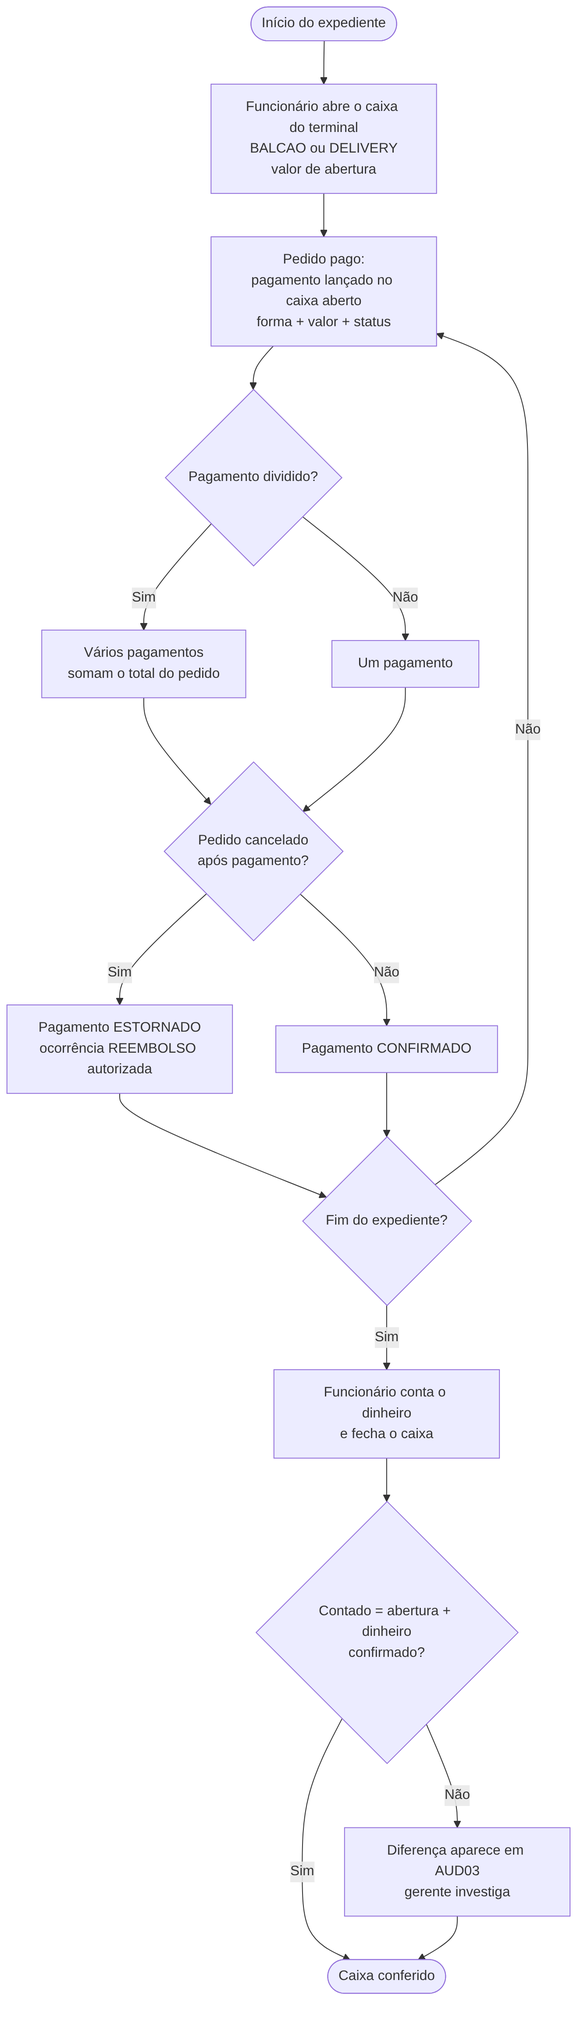
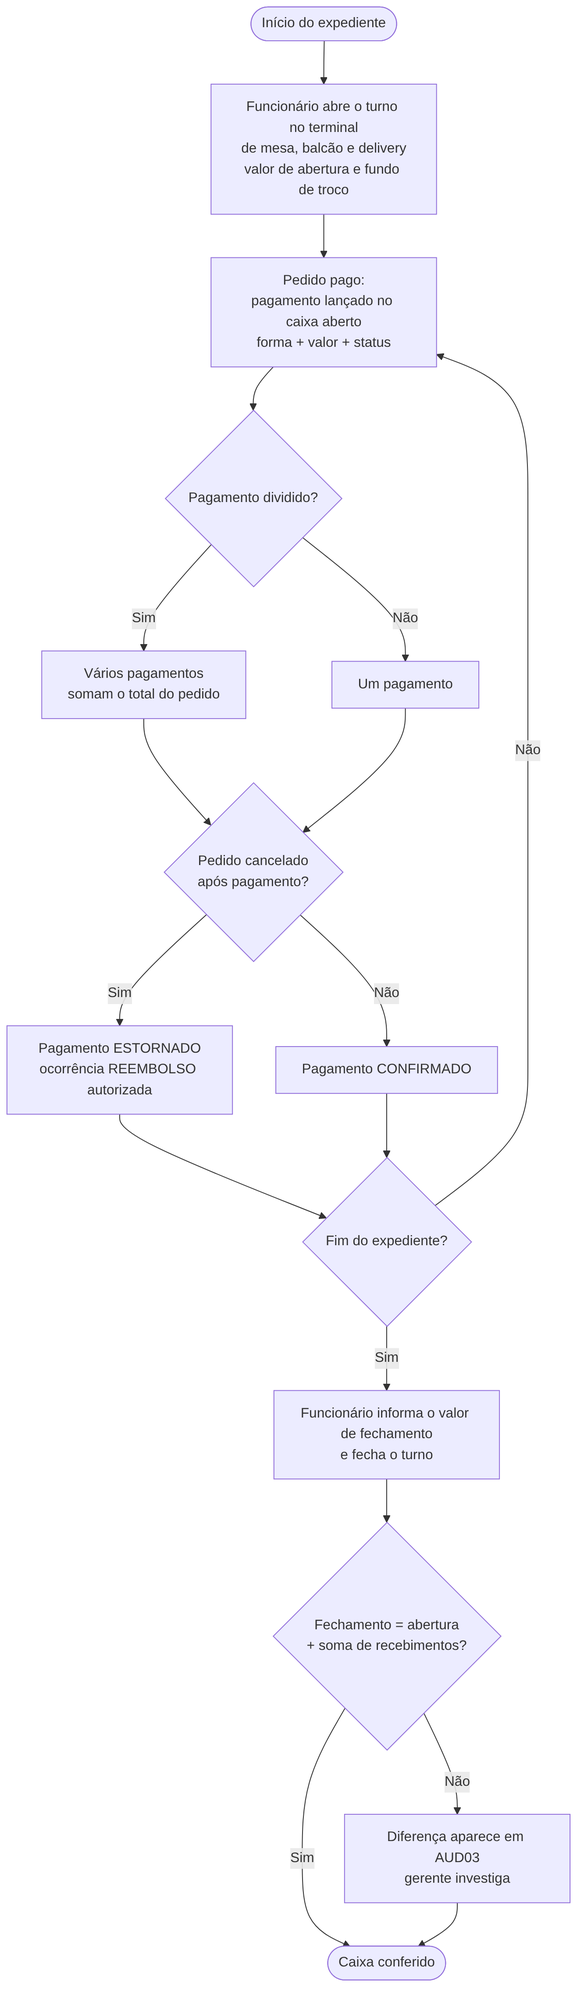
docs: decisões D16-D23, dados reais x simulados, DER lógico, fluxograma do caixa, requisitos e rastreabilidade atualizados

diff --git a/docs/requisitos/requisitos.md b/docs/requisitos/requisitos.md
@@ -21,7 +21,7 @@ Os identificadores do grupo foram mantidos. `RNF02` e `RNF05` não existem mais 
 | **RF11** | Método de entrega | O cliente escolhe a modalidade do pedido: LOCAL (consumo no salão), RETIRADA (no balcão) ou DELIVERY. Pedido DELIVERY gera uma entrega com endereço, taxa, entregador e horários de saída e chegada. | Mantido; modalidade separada do canal. | CHECK ck_pedido_canal_modalidade; invariantes 'delivery sempre tem entrega'; testes T05-T06, T28. |
 | **RF12** | Compras, recebimento e conferência de insumos | O gerente ou proprietário registra a compra ao fornecedor (itens e valor); o recebimento é conferido por lote (quantidade e validade) contra o que foi comprado; divergências são detectáveis. | NOVO: a devolutiva apontou que o escopo ignorava compras, recebimento, conferência e reposição. | Auditoria AUD01; teste T11-T12. |
 | **RF13** | Contas a pagar | Cada compra gera uma obrigação financeira com valor, vencimento e situação (ABERTA, PAGA, CANCELADA); despesas fixas (aluguel, energia) também são registradas; vencidas e não pagas são listadas. | NOVO: a devolutiva exigiu demonstrar obrigações financeiras e pagamentos. | Consulta G10; auditoria AUD05; invariante 'conta a pagar = soma da compra'. |
-| **RF14** | Caixa | Cada terminal (BALCAO, DELIVERY) abre e fecha caixa por dia, com valor de abertura, valor contado no fechamento e responsáveis; todo pagamento é lançado em um caixa; a diferença entre o contado e o esperado em dinheiro é auditável. | NOVO: baseado no relatório de fechamento de caixa da Evidência 1 do grupo. | Auditoria AUD03. |
+| **RF14** | Caixa | O terminal (na fita: "Mont Ararat Delivery", que registra vendas de mesa, balcão e delivery) abre e fecha o turno com valor de abertura, valor de fechamento informado e responsáveis; todo pagamento é lançado em um caixa; os recebimentos são agrupados em dinheiro, cartão e outras formas; a diferença de caixa = fechamento − (abertura + soma de recebimentos) é auditável, e o fechamento mostra serviço de mesa, tickets e cancelamentos de mesa. | NOVO: baseado na fita de fechamento de turno real (Evidência 1 do grupo), lida campo a campo. | Consulta G14 (reproduz a fita); auditoria AUD03 e AUD11; teste T43. |
 | **RF15** | Promoções e descontos | O sistema aplica promoção de aniversário (exige documento conferido) e cupons; todo desconto é autorizado por funcionário com permissão e o valor fica registrado no pedido. | NOVO: formaliza a política organizacional de promoções do README. | Consulta G12; auditoria AUD02; testes T07-T08, T35-T36. |
 | **RF16** | Trocas, cancelamentos e reembolsos | Troca, cancelamento e reembolso são registrados como ocorrência do pedido, com causa, indicação de consumo pelo cliente, autorizador e, no reembolso, o valor devolvido. | NOVO: operacionaliza RDN05 e RDN10. | Auditoria AUD08; testes T21-T24. |
 | **RF17** | Fila de produção com prioridade | O sistema ordena a produção pelo par (prioridade, horário do pedido): prioridade 1 para modalidade LOCAL, prioridade 2 para RETIRADA e DELIVERY (RDN09). | NOVO: demonstra COMO a prioridade é aplicada à fila, como pedido na devolutiva. | Consultas O02, O06, G07. |
@@ -36,7 +36,7 @@ Os identificadores do grupo foram mantidos. `RNF02` e `RNF05` não existem mais 
 | **RNF03** | Tempo de resposta do lançamento de pedidos | O lançamento de um pedido e o envio à cozinha respondem em até 2 segundos em pico (sexta e sábado, 19h-22h). | Mantido. | Teste de carga com a massa de dados; índices nas chaves estrangeiras criadas pelo InnoDB. |
 | **RNF04** | Emissão do comprovante | O comprovante do pedido é emitido em até 5 segundos após a confirmação do pagamento (consulta v_total_pedido e v_pedido_pagamento). | Mantido. | Medição da consulta de comprovante. |
 | **RNF06** | Disponibilidade do módulo de contato | O módulo de contato com o cliente fica disponível em pelo menos 99% do tempo de funcionamento. | Mantido. | Monitoramento de disponibilidade. |
-| **RNF07** | Integridade dos dados garantida pelo SGBD | Domínios, obrigatoriedade, unicidade, referências e as regras RDN01-RDN15 são garantidas pelo próprio banco (PK, FK, UNIQUE, CHECK e triggers), não apenas pela aplicação. | NOVO: critério de qualidade do modelo lógico. | 39 testes de restrição (sql/testes) com controles positivos. |
+| **RNF07** | Integridade dos dados garantida pelo SGBD | Domínios, obrigatoriedade, unicidade, referências e as regras RDN01-RDN15 são garantidas pelo próprio banco (PK, FK, UNIQUE, CHECK e triggers), não apenas pela aplicação. | NOVO: critério de qualidade do modelo lógico. | 43 testes de restrição (sql/testes) com controles positivos. |
 | **RNF08** | Precisão monetária | Valores monetários usam DECIMAL (nunca ponto flutuante) e totais não são armazenados: são derivados por view, evitando divergência. | NOVO: decorre da normalização (3FN). | Dicionário de dados; views v_total_pedido e v_pedido_pagamento. |
 
 ## Regras de negócio (RDN)
@@ -48,7 +48,7 @@ Os identificadores do grupo foram mantidos. `RNF02` e `RNF05` não existem mais 
 | **RDN03** | Limpeza da mesa após o uso | A mesa só entra em limpeza depois de ocupada e só volta a ficar livre depois da limpeza. JUSTIFICATIVA de estar no sistema: o estado EM_LIMPEZA altera a disponibilidade mostrada ao cliente (RF07), portanto precisa ser registrado; o ato de limpar é procedimento interno e não é controlado pelo sistema. | Justificada, como pedido pela devolutiva. | Trigger trg_mesa_bu; testes T32-T34. |
 | **RDN04** | Venda condicionada à disponibilidade e ao estoque | Um produto só é vendido se estiver marcado como disponível e se o saldo de estoque permitir produzir a quantidade pedida (checagem prévia do estoque). | Reescrito: inclui a checagem de estoque exigida na política 'Venda do Produto'. | Trigger trg_item_pedido_bi; consulta O07; testes T15, T38. |
 | **RDN05** | Troca ou cancelamento por insatisfação | Em caso de insatisfação, a troca, o cancelamento e o reembolso só são permitidos se o cliente NÃO consumiu o produto. Exceção (a confirmar): troca por erro da casa é permitida mesmo após o consumo. | Reescrito: elimina a contradição entre RDN05 e a política organizacional apontada na devolutiva. | CHECK ck_ocorrencia_politica; testes T21-T22. |
-| **RDN06** | Montagem especial não vai por delivery | Produto marcado como montagem_especial não pode ser incluído em pedido DELIVERY. | Mantido; tornado verificável por atributo do produto. | Trigger trg_item_pedido_bi; testes T13-T14. |
+| **RDN06** | Montagem especial não vai por delivery | Produto marcado como montagem_especial (na massa: Dilúvio, assumido; decisão D13) não pode ser incluído em pedido DELIVERY, nem diretamente nem dentro de um combo. | Mantido; tornado verificável por atributo do produto. | Triggers trg_item_pedido_bi e trg_item_combo_pedido_bi; testes T13-T14 e T40-T41. |
 | **RDN07** | Embalagem individual identificada | Cada produto é embalado individualmente e identificado. No sistema, a embalagem é um insumo da ficha técnica de cada produto (consumo e estoque controlados); a identificação física da embalagem é procedimento interno. | Justificada: parte é representada (insumo), parte é procedimento. | Ficha técnica contém Embalagem para hambúrguer/porção. |
 | **RDN08** | Retirada do delivery na porta | O entregador retira o pedido delivery na porta do estabelecimento. É procedimento operacional, não gera dado próprio; o sistema registra apenas a saída (entrega.data_hora_saida). | Justificada como procedimento fora do esquema. | Campo data_hora_saida. |
 | **RDN09** | Prioridade do consumo no local | Pedidos LOCAL têm prioridade 1 e os demais prioridade 2; a fila de produção é ordenada por (prioridade, horário do pedido). A prioridade não interrompe um preparo já iniciado. | NOVO (RDN09 estava vazio): transforma a política 'prioridade dos pedidos' em regra aplicável. | v_fila_producao; consultas O02, O06, G07. |
@@ -56,5 +56,5 @@ Os identificadores do grupo foram mantidos. `RNF02` e `RNF05` não existem mais 
 | **RDN11** | Descontos autorizados | Todo desconto tem autorizador com permissão. A promoção de aniversário só vale com documento conferido. | NOVO: formaliza a política de promoções e autorizações do README. | CHECK ck_pedido_desconto_autorizado; trigger trg_pedido_bi; auditoria AUD02; testes T07-T08, T35-T36. |
 | **RDN12** | Compras apenas por gerente ou proprietário | Somente funcionário de cargo com permissão de compra (gerente e proprietário) registra compra de insumos. | NOVO: formaliza a política de compra do README. | Trigger trg_compra_bi; testes T11-T12. |
 | **RDN13** | Estoque por movimentações, sem saldo negativo | O estoque é um livro de movimentações (entrada positiva, saída negativa); o consumo é lançado quando o preparo inicia, calculado por (itens x ficha técnica) e (combos x composição x ficha técnica); nenhuma saída pode deixar o saldo negativo. | NOVO: responde ao pedido de demonstrar o cálculo da baixa de estoque. | Trigger trg_movimentacao_bi; auditoria AUD09; teste T25. |
-| **RDN14** | Preço da venda preservado | O preço unitário de cada item é copiado do cardápio no momento da venda e não muda se o cardápio for reajustado depois. | NOVO: decisão de normalização (a cópia é intencional: é o preço histórico, não redundância). | Massa contém reajuste do Dois Dilúvios em 01/10/2026. |
+| **RDN14** | Preço da venda preservado | O preço unitário de cada item é copiado do cardápio no momento da venda e não muda se o cardápio for reajustado depois. | NOVO: decisão de normalização (a cópia é intencional: é o preço histórico, não redundância). | Massa contém reajuste fictício do Dilúvio em 01/10/2026 (D18). |
 | **RDN15** | Conclusão do pedido exige pagamento integral | Um pedido só vai a CONCLUIDO com pagamentos CONFIRMADOS somando o valor total; pedido CANCELADO não é venda e seus pagamentos online são ESTORNADOS. | NOVO: distingue entregue, cancelado, pago e concluído. | Trigger trg_pedido_bu; auditoria AUD07; testes T37. |

diff --git a/docs/dicionario-dados/dicionario-de-dados.md b/docs/dicionario-dados/dicionario-de-dados.md
@@ -287,6 +287,8 @@ Insumos (matéria-prima) controlados em estoque; a validade fica no lote
 | `marca` | VARCHAR(60) | não | 'SEM MARCA' | UQ | Marca do insumo, como na lista de compras |
 | `id_categoria_insumo` | INT | não |  | FK→categoria_insumo | Categoria do insumo |
 | `unidade_medida` | VARCHAR(2) | não |  |  | Unidade base de estoque e de consumo: G, ML ou UN |
+| `unidade_compra` | VARCHAR(20) | não |  |  | Unidade em que o item é pedido ao fornecedor, como na lista de compras (fardo, caixa, pacote, balde...) |
+| `fator_conversao` | DECIMAL(12,3) | não |  |  | Quantos da unidade de medida base há em uma unidade de compra (ex.: 1 fardo = 12 UN) |
 | `estoque_minimo` | DECIMAL(12,3) | não | 0 |  | Saldo mínimo, na unidade de medida, que dispara a reposição |
 
 **Restrições**
@@ -298,6 +300,7 @@ Insumos (matéria-prima) controlados em estoque; a validade fica no lote
 | `fk_insumo_categoria` | FOREIGN KEY | `(id_categoria_insumo) → categoria_insumo(id_categoria_insumo)` | categoria padronizada |
 | `ck_insumo_unidade` | CHECK | `(unidade_medida IN ('G', 'ML', 'UN'))` | unidades de consumo suportadas; compras em kg, L ou caixa são convertidas para a unidade base |
 | `ck_insumo_minimo` | CHECK | `(estoque_minimo >= 0)` | mínimo não negativo |
+| `ck_insumo_fator` | CHECK | `(fator_conversao > 0)` | conversão positiva |
 
 ## ficha_tecnica
 
@@ -477,6 +480,7 @@ Domínio das formas de pagamento e custo de recebimento
 | `id_forma_pagamento` | INT (auto) | não |  | PK | Identificador da forma de pagamento |
 | `nome` | VARCHAR(30) | não |  | UQ | PIX, Cartão de débito, Cartão de crédito, Dinheiro, Online iFood, Online 99food |
 | `taxa_percentual` | DECIMAL(5,2) | não | 0 |  | Taxa percentual cobrada pela operadora ou plataforma sobre o valor recebido |
+| `grupo_fechamento` | VARCHAR(8) | não |  |  | Linha da fita de fechamento em que a forma é somada: DINHEIRO, CARTAO ou OUTRAS |
 
 **Restrições**
 
@@ -485,21 +489,22 @@ Domínio das formas de pagamento e custo de recebimento
 | `pk_forma_pagamento` | PRIMARY KEY | `(id_forma_pagamento)` |  |
 | `uq_forma_pagamento_nome` | UNIQUE | `(nome)` | forma de pagamento com grafia única (substitui o texto livre) |
 | `ck_forma_pagamento_taxa` | CHECK | `(taxa_percentual BETWEEN 0 AND 100)` | percentual válido |
+| `ck_forma_pagamento_grupo` | CHECK | `(grupo_fechamento IN ('DINHEIRO', 'CARTAO', 'OUTRAS'))` | as três linhas de recebimento da fita de fechamento |
 
 ## caixa
 
-Turnos de caixa por terminal (fechamento de caixa)
+Turnos de caixa por terminal (fechamento de turno, como na fita de fechamento)
 
 | Coluna | Tipo | Nulo? | Padrão | Papel | Descrição |
 |---|---|---|---|---|---|
 | `id_caixa` | INT (auto) | não |  | PK | Identificador da sessão de caixa (turno) |
-| `terminal` | VARCHAR(10) | não |  |  | Terminal do caixa: BALCAO ou DELIVERY |
+| `terminal` | VARCHAR(30) | não |  |  | Nome do terminal/PDV que operou o turno (na fita: "Mont Ararat Delivery", que também registra vendas de mesa e balcão) |
 | `id_funcionario_abertura` | INT | não |  | FK→funcionario | Funcionário que abriu o caixa |
 | `id_funcionario_fechamento` | INT | sim |  | FK→funcionario | Funcionário que fechou o caixa |
 | `data_hora_abertura` | DATETIME | não |  |  | Momento da abertura |
 | `data_hora_fechamento` | DATETIME | sim |  |  | Momento do fechamento; NULL enquanto aberto |
 | `valor_abertura` | DECIMAL(10,2) | não | 0 |  | Fundo de troco informado na abertura |
-| `valor_contado_fechamento` | DECIMAL(10,2) | sim |  |  | Dinheiro contado no fechamento |
+| `valor_fechamento` | DECIMAL(10,2) | sim |  |  | Valor de fechamento informado pelo operador (fita: "VALOR DE FECHAMENTO"); esperado = abertura + soma de recebimentos |
 
 **Restrições**
 
@@ -508,9 +513,9 @@ Turnos de caixa por terminal (fechamento de caixa)
 | `pk_caixa` | PRIMARY KEY | `(id_caixa)` |  |
 | `fk_caixa_abertura` | FOREIGN KEY | `(id_funcionario_abertura) → funcionario(id_funcionario)` | quem abriu |
 | `fk_caixa_fechamento` | FOREIGN KEY | `(id_funcionario_fechamento) → funcionario(id_funcionario)` | quem fechou |
-| `ck_caixa_terminal` | CHECK | `(terminal IN ('BALCAO', 'DELIVERY'))` | dois terminais, como na evidência de fechamento de caixa |
+| `ck_caixa_terminal` | CHECK | `(LENGTH(TRIM(terminal)) > 0)` | terminal identificado (o relatório de fechamento traz o nome do terminal) |
 | `ck_caixa_valor_abertura` | CHECK | `(valor_abertura >= 0)` | fundo não negativo |
-| `ck_caixa_fechamento` | CHECK | `((data_hora_fechamento IS NULL AND id_funcionario_fechamento IS NULL AND valor_contado_fechamento IS NULL) OR (data_hora_fechamento IS NOT NULL AND id_funcionario_fechamento IS NOT NULL AND valor_contado_fechamento IS NOT NULL AND data_hora_fechamento >= data_hora_abertura))` | fechamento é tudo ou nada e não precede a abertura |
+| `ck_caixa_fechamento` | CHECK | `((data_hora_fechamento IS NULL AND id_funcionario_fechamento IS NULL AND valor_fechamento IS NULL) OR (data_hora_fechamento IS NOT NULL AND id_funcionario_fechamento IS NOT NULL AND valor_fechamento IS NOT NULL AND data_hora_fechamento >= data_hora_abertura))` | fechamento é tudo ou nada e não precede a abertura |
 
 ## entregador
 
@@ -551,6 +556,7 @@ Pedidos de clientes; totais e situação de pagamento são derivados por view
 | `data_hora_pronto` | DATETIME | sim |  |  | Momento em que o pedido ficou pronto |
 | `data_hora_encerramento` | DATETIME | sim |  |  | Momento em que o pedido foi concluído ou cancelado |
 | `valor_desconto` | DECIMAL(8,2) | não | 0 |  | Desconto total em reais concedido ao pedido |
+| `valor_servico` | DECIMAL(8,2) | não | 0 |  | Taxa de serviço de mesa cobrada em reais (aparece como "Serviço de mesa" na fita de fechamento); 0 fora do salão |
 | `documento_conferido` | TINYINT(1) | não | 0 |  | Indica que o documento pessoal foi conferido (promoção de aniversário) |
 
 **Restrições**
@@ -569,6 +575,7 @@ Pedidos de clientes; totais e situação de pagamento são derivados por view
 | `ck_pedido_canal_modalidade` | CHECK | `((canal <> 'SALAO' OR modalidade = 'LOCAL') AND (canal NOT IN ('IFOOD', '99FOOD') OR modalidade <> 'LOCAL'))` | pedido de salão é local; pedido de aplicativo nunca é consumido no local |
 | `ck_pedido_mesa_local` | CHECK | `(id_mesa IS NULL OR modalidade = 'LOCAL')` | mesa só existe em consumo no local |
 | `ck_pedido_desconto` | CHECK | `(valor_desconto >= 0)` | desconto não negativo |
+| `ck_pedido_servico` | CHECK | `(valor_servico >= 0 AND (valor_servico = 0 OR id_mesa IS NOT NULL))` | taxa de serviço só existe em atendimento de mesa |
 | `ck_pedido_desconto_autorizado` | CHECK | `(valor_desconto = 0 OR id_funcionario_autorizador IS NOT NULL)` | política: desconto exige autorização |
 | `ck_pedido_documento` | CHECK | `(documento_conferido IN (0, 1))` | domínio booleano |
 | `ck_pedido_ordem_inicio` | CHECK | `(data_hora_inicio_preparo IS NULL OR data_hora_inicio_preparo >= data_hora_pedido)` | o preparo não começa antes do pedido |
@@ -589,6 +596,7 @@ Itens avulsos do pedido (associativa N:N pedido x produto); o subtotal é calcul
 | `quantidade` | SMALLINT | não |  |  | Quantidade vendida |
 | `preco_unitario` | DECIMAL(8,2) | não |  |  | Preço unitário praticado na venda (cópia do preço vigente no momento; RDN14: o preço histórico não muda com reajustes) |
 | `observacao` | VARCHAR(200) | sim |  |  | Observação do cliente sobre o item (ex.: sem cebola) |
+| `cancelado` | TINYINT(1) | não | 0 |  | Indica item cancelado antes do preparo: continua registrado, mas não entra no total nem no consumo (fita: "Cancelamentos mesa") |
 
 **Restrições**
 
@@ -599,6 +607,7 @@ Itens avulsos do pedido (associativa N:N pedido x produto); o subtotal é calcul
 | `fk_item_pedido_produto` | FOREIGN KEY | `(id_produto) → produto(id_produto)` | produto existente |
 | `ck_item_pedido_quantidade` | CHECK | `(quantidade > 0)` | RF03: quantidade positiva |
 | `ck_item_pedido_preco` | CHECK | `(preco_unitario > 0)` | preço positivo |
+| `ck_item_pedido_cancelado` | CHECK | `(cancelado IN (0, 1))` | domínio booleano |
 
 ## item_combo_pedido
 

diff --git a/docs/decisoes-a-confirmar.md b/docs/decisoes-a-confirmar.md
@@ -12,14 +12,25 @@ Estas são interpretações razoáveis feitas para eliminar ambiguidades. Nenhum
 | D06 | `houve_consumo` significa que o **cliente** já consumiu o produto (não confundir com a baixa de insumos) | — | `ocorrencia` |
 | D07 | Nota de avaliação de 1 a 5 (a 1ª entrega dizia 0 a 5) | Manter 0 a 5 | `ck_avaliacao_nota` |
 | D08 | CPF opcional (clientes de plataformas podem não informar) | Obrigatório | `pessoa.cpf` |
-| D09 | Dois terminais de caixa (BALCAO e DELIVERY), um caixa por terminal por dia (como no relatório da Evidência 1) | — | `caixa` |
+| D09 | **Revisada com a fita real:** um turno de caixa por dia no terminal "Mont Ararat Delivery", que registra vendas de mesa, balcão e delivery; fundo de R$ 150 (da fita). Não sabemos se há outros terminais | Vários terminais | `caixa.terminal` |
 | D10 | Pagamento de pedido de plataforma é online e pré-pago; taxa da plataforma como percentual em `forma_pagamento` | — | `forma_pagamento` |
 | D11 | Promoção de aniversário exige documento conferido; cupom não exige | — | `promocao` |
 | D12 | Estoque é consumido ao **iniciar** o preparo; a checagem na venda usa o saldo atual (pode haver corrida entre pedidos simultâneos) | Reserva de estoque ao criar o pedido | `trg_item_pedido_bi` |
-| D13 | Estoque mínimo = 25% da demanda semanal média (na massa de dados) | Definir por insumo com o gerente | `insumo.estoque_minimo` |
+| D13 | Estoque mínimo = 25% da demanda semanal média (na massa de dados). **Montagem especial (RDN06) = Dilúvio** (assumido: o original dizia só "montagem especial") | Definir mínimos com o gerente; confirmar qual lanche é montagem especial | `insumo.estoque_minimo`, `produto.montagem_especial` |
 | D14 | Funcionário com histórico não pode ser apagado (FK RESTRICT); desligamento é registrado por data | — | `funcionario` |
 | D15 | Reserva tem horário de início e fim explícitos (duração livre) | Duração padrão de 2 h | `reserva` |
 
-## Dados fictícios (substituir antes da apresentação, se possível)
+| D16 | Combo = lanche + meia porção de batata simples, por lanche + R$ 8 (a diferença de R$ 8 vem do cardápio; **a composição é suposta**) | Composição real (ex.: batata individual + bebida) | `item_combo` |
+| D17 | Carnes, hortifrúti, batata, coxinha, pulled pork e a "maionese da casa" **não aparecem na lista de compras fotografada**; foram incluídos como insumos com fornecedores genéricos (fornecedor 17 fictício; hortifrúti e congelados no Mercado/Cornershop). Maionese da casa é tratada como insumo comprado (produção intermediária não modelada) | Cadastrar os fornecedores reais e modelar a produção própria | `insumo`, `fornecedor` |
+| D18 | Reajuste do Dilúvio em 01/10 (R$ 39 → R$ 41) é **fictício**, só para demonstrar que o item guarda o preço da venda (RDN14) | Remover o reajuste | `item_pedido.preco_unitario` |
+| D19 | Pesos dos produtos (`peso_g`) e gramaturas das fichas técnicas são **estimativas**; só os pesos dos burgers (120/150/180/200 g) vêm do cardápio | Pesar com a cozinha | `produto.peso_g`, `ficha_tecnica` |
+| D20 | Serviço de mesa = 10% do consumo, dispensado em ~15% das mesas. A fita mostra R$ 196,50 sobre R$ 2.974 de vendas de mesa (6,6%), então a regra real não é 10% fixo | Perguntar a regra (percentual, por pessoa, facultativo) | `pedido.valor_servico` |
+| D21 | Cancelamento de item (fita: "Cancelamentos mesa") é um **item cancelado antes do preparo**: fica registrado com `cancelado = 1`, não entra no total nem no consumo | Cancelar também após o preparo (perda) | `item_pedido.cancelado` |
+| D22 | Refrigerante e suco são um produto cada (a cozinha baixa Coca-Cola e um suco genérico); Heineken e os preços de compra dos insumos não constam na lista e são estimados | Um produto por sabor | `produto`, `insumo` |
+| D23 | Taxa de entrega fixa de R$ 6 e volume de vendas (20 a 50 pedidos por dia, ticket ~R$ 110) são simulados, calibrados pela fita (30 tickets, ticket R$ 101,63) | Dados reais de vendas | gerador |
 
-Cardápio além do Dois Dilúvios e da porção de coxinhas, preços, fichas técnicas (gramas por lanche), fornecedores, CNPJs, CPFs (prefixo 999000), funcionários, vendas, taxas e prazos são **inventados** para teste. O grupo deve substituir pelo cardápio, preços e lista de compras reais (Evidências 2 e 4 do README original) e regenerar a massa com `python3 sql/ferramentas/gerar_massa.py`.
+## Dados reais x simulados
+
+**Reais (das fotos do estabelecimento):** cardápio e preços (lanches, entradas, extras, bebidas), nomes dos fornecedores e unidades de compra da lista de compras, formato e terminal da fita de fechamento, fundo de caixa de R$ 150, serviço de mesa, cancelamentos de mesa, grupos de recebimento (dinheiro, cartão, outras) e a fórmula da diferença de caixa.
+
+**Inventados (para teste):** pessoas e clientes (CPFs com prefixo 999000), CNPJs e telefones, vendas e horários, gramaturas das fichas técnicas, preços de compra, salários, composição dos combos e o reajuste de preço. Para trocar qualquer um pelo dado real, edite `sql/ferramentas/gerar_massa.py` (bloco "DADOS DE REFERÊNCIA") e rode `python3 gerar_massa.py`.

diff --git a/docs/modelo-logico.md b/docs/modelo-logico.md
@@ -15,7 +15,7 @@
 - `item_combo` ( **id_combo**↗, **id_produto**↗, quantidade )
 - `favorito` ( **id_pessoa**↗, **id_produto**↗, data_hora_salvo )
 - `categoria_insumo` ( **id_categoria_insumo**, nome )
-- `insumo` ( **id_insumo**, nome, marca, id_categoria_insumo↗, unidade_medida, estoque_minimo )
+- `insumo` ( **id_insumo**, nome, marca, id_categoria_insumo↗, unidade_medida, unidade_compra, fator_conversao, estoque_minimo )
 - `ficha_tecnica` ( **id_produto**↗, **id_insumo**↗, quantidade )
 - `fornecedor` ( **id_fornecedor**, cnpj, razao_social, telefone, email )
 - `fornecedor_insumo` ( **id_fornecedor**↗, **id_insumo**↗, prazo_entrega_dias )
@@ -24,11 +24,11 @@
 - `recebimento` ( **id_recebimento**, id_compra↗, id_funcionario↗, data_hora_recebimento, numero_nota_fiscal, observacao )
 - `lote` ( **id_lote**, id_recebimento↗, id_insumo↗, codigo_lote, quantidade_recebida, data_validade )
 - `promocao` ( **id_promocao**, nome, tipo_promocao, percentual_desconto, exige_documento, ativa )
-- `forma_pagamento` ( **id_forma_pagamento**, nome, taxa_percentual )
-- `caixa` ( **id_caixa**, terminal, id_funcionario_abertura↗, id_funcionario_fechamento↗, data_hora_abertura, data_hora_fechamento, valor_abertura, valor_contado_fechamento )
+- `forma_pagamento` ( **id_forma_pagamento**, nome, taxa_percentual, grupo_fechamento )
+- `caixa` ( **id_caixa**, terminal, id_funcionario_abertura↗, id_funcionario_fechamento↗, data_hora_abertura, data_hora_fechamento, valor_abertura, valor_fechamento )
 - `entregador` ( **id_entregador**, nome, telefone, vinculo )
-- `pedido` ( **id_pedido**, id_pessoa↗, id_funcionario↗, id_mesa↗, id_promocao↗, id_funcionario_autorizador↗, canal, modalidade, status_pedido, data_hora_pedido, data_hora_inicio_preparo, data_hora_pronto, data_hora_encerramento, valor_desconto, documento_conferido )
-- `item_pedido` ( **id_pedido**↗, **numero_item**, id_produto↗, quantidade, preco_unitario, observacao )
+- `pedido` ( **id_pedido**, id_pessoa↗, id_funcionario↗, id_mesa↗, id_promocao↗, id_funcionario_autorizador↗, canal, modalidade, status_pedido, data_hora_pedido, data_hora_inicio_preparo, data_hora_pronto, data_hora_encerramento, valor_desconto, valor_servico, documento_conferido )
+- `item_pedido` ( **id_pedido**↗, **numero_item**, id_produto↗, quantidade, preco_unitario, observacao, cancelado )
 - `item_combo_pedido` ( **id_pedido**↗, **numero_item**, id_combo↗, quantidade, preco_unitario, observacao )
 - `pagamento` ( **id_pagamento**, id_pedido↗, id_forma_pagamento↗, id_caixa↗, valor, data_hora_pagamento, status_pagamento )
 - `ocorrencia` ( **id_ocorrencia**, id_pedido↗, id_funcionario_autorizador↗, tipo_ocorrencia, causa, houve_consumo, valor_reembolso, descricao, data_hora_ocorrencia )

diff --git a/docs/ia/uso-de-ia.md b/docs/ia/uso-de-ia.md
@@ -9,7 +9,7 @@ A revisão crítica da 1ª entrega e a primeira versão dos artefatos desta past
 | Etapa | Produto | Validação feita |
 |---|---|---|
 | Análise crítica da 1ª entrega | Relatório de falhas contra a devolutiva | Conferido linha a linha com a devolutiva (`docs/historico-alteracoes.md`) |
-| DDL, views, triggers | `sql/ddl/*` | Executados em SQLite com adaptador (34 tabelas, 10 views); 39 testes de restrição com controles positivos |
+| DDL, views, triggers | `sql/ddl/*` | Executados em SQLite com adaptador (34 tabelas, 10 views); 43 testes de restrição com controles positivos |
 | Massa de dados | `sql/ferramentas/gerar_massa.py` → `sql/dados` | 15 invariantes (FKs, estoque, pagamentos, consumo = ficha técnica, etc.) |
 | Consultas | `sql/consultas`, `sql/auditoria` | Executadas; auditorias encontram exatamente as anomalias plantadas |
 | Documentação técnica | dicionário, modelo lógico, rastreabilidade | **Gerados do DDL por script** (não digitados), para não divergirem |

diff --git a/docs/historico-alteracoes.md b/docs/historico-alteracoes.md
@@ -23,3 +23,5 @@ Cada linha da devolutiva do professor foi mapeada para a correção e para a **e
 | 17 | Parte C: documentação consolidada | Repositório único com README, docs, SQL, evidências, apresentação | este repositório |
 | 18 | Sequência Problema→...→Dicionário | Documentos seguem essa ordem (README seções 3 a 8) | `README.md` |
 | 19 | (Extra, não pedido) Pessoa com PK cpf; avaliação 0-5; observação com "OBS"; comentário sem símbolos | PK substituta; nota 1-5; regras de apresentação removidas do banco | `normalizacao.md` N12; decisão D07 |
+| 20 | (Extra) Adequação aos dados reais do estabelecimento | Cardápio e preços reais; insumos e fornecedores da lista de compras (`unidade_compra`, `fator_conversao`); caixa conforme a fita (terminal único, `valor_fechamento`, `grupo_fechamento`, `valor_servico`, `item_pedido.cancelado`); RDN06 estendida a combos; consultas G14 e AUD11 | `sql/ddl`; G14, AUD03, AUD11; testes T40-T43; decisões D09, D13, D16-D23 |
+
